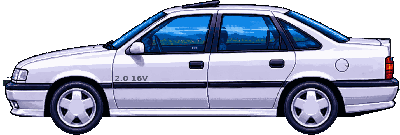
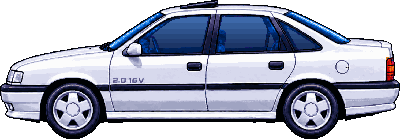
v0.81.20: lateral do Vetor GSi refeita da arte em fundo magenta (recorte limpo, vidros, rodas e luzes medidas)
Claude-Session: https://claude.ai/code/session_01MLD9VR7gkmY4w6a9beZcp6

diff --git a/src/cars.ts b/src/cars.ts
@@ -401,7 +401,7 @@ const SIDE_LAMPS: Record<string, SideLamp> = {
   nsx: { head: [0.082, 0.365], tail: [0.975, 0.38], pop: true },
   viper: { head: [0.075, 0.54], tail: [0.975, 0.53] },
   patrol: { head: [0.05, 0.636], tail: [0.958, 0.533] },
-  'br-vectra': { head: [0.051, 0.55], tail: [0.973, 0.502] },
+  'br-vectra': { head: [0.039, 0.549], tail: [0.975, 0.499] }, // vectra_side2.py
   'br-uno': { head: [0.04, 0.55], tail: [0.975, 0.46] },
   'br-golgti': { head: [0.033, 0.593], tail: [0.98, 0.6] },
   'br-kadett': { head: [0.0365, 0.601], tail: [0.976, 0.513] },
@@ -428,7 +428,7 @@ const WHEELS: Record<string, number[][]> = {
   'br-pumagte': [[0.2093, 0.7416, 0.0558], [0.7541, 0.7378, 0.0558]], // Puma GTE 1974 (pumagte_sprites2.py)
   'br-pumagtb': [[0.21, 0.7477, 0.0586], [0.7689, 0.7418, 0.0599]], // Puma GTB S2 (pumagtb_sprites.py)
   'br-golgti': [[0.1921, 0.8185, 0.0574], [0.8187, 0.8149, 0.0574]],
-  'br-vectra': [[0.1902, 0.7938, 0.0501], [0.7763, 0.7909, 0.0509]], // arte nova (vectra_sprites.py)
+  'br-vectra': [[0.1812, 0.788, 0.0509], [0.7762, 0.7861, 0.0519]], // lateral nova em fundo magenta (vectra_side2.py)
   'br-monza': [[0.1775, 0.7779, 0.0502], [0.7859, 0.7771, 0.0502]],
   'br-monzacoupe': [[0.1868, 0.7791, 0.048], [0.7874, 0.7823, 0.048]],
   'br-voyage': [[0.191, 0.7891, 0.0442], [0.7612, 0.7924, 0.0435]],

diff --git a/tools/ref/vectra_side2.py b/tools/ref/vectra_side2.py
@@ -1,0 +1,167 @@
+"""Lateral do Vetor GSi a partir da arte nova do Victor em fundo magenta liso (1774 x 887, frente para a
+direita: é espelhada). Substitui a lateral do vectra_sprites.py (a de cenário, que deixava restos de mato).
+- fundo: magenta ligado às bordas; a franja rosada encostada nele também sai
+- vidros: o magenta visto por dentro das janelas (buracos fechados pela carroceria) e a franja rosada em
+  volta viram vidro azul escuro (mais claro em cima); bancos e colunas desenhados ficam
+- marcas: a gravata dos miolos das rodas sai (miolo liso, como no resto do jogo); o adesivo do vidro sai;
+  o "2.0 16V" da porta é espelhado no lugar antes do espelho geral (continua legível)
+- redução: shrink do monza_sprites.py (miolo de cada bloco + paleta curta), 400 de largura
+- lanterna: o miolo amarelo-claro (lâmpada acesa na arte) vira âmbar
+- máscara de pintura: lataria clara e pouco colorida, sem lanternas, faróis, rodas e letreiro
+Uso: python3 tools/ref/vectra_side2.py <side.png> <src/assets/cars>   (DBG=<pasta> grava a conferência)
+"""
+import os
+import sys
+
+import cv2
+import numpy as np
+from PIL import Image
+
+sys.path.insert(0, os.path.dirname(__file__))
+from monza_sprites import shrink  # noqa: E402
+
+ID = 'br-vectra'
+HUBS = ((489, 645), (1380, 645))      # miolos das rodas (gravata), arte original
+HUB_R = 21                            # o miolo com a gravata; o aro da capa (r 22-26) fica
+WHEEL_R = 102                         # roda inteira (pneu), para tirar da máscara de pintura
+TEXT = (1110, 525, 1234, 551)         # "2.0 16V"
+STICKER = (916, 414, 956, 432)        # adesivo no vidro da porta
+# lentes (polígonos justos: a lataria em volta tem de entrar na pintura)
+LENSES = [
+    [(176, 452), (211, 452), (211, 545), (176, 545)],                                 # lanterna
+    [(1562, 506), (1600, 499), (1616, 506), (1623, 546), (1570, 549), (1561, 541)],    # farol
+    [(1600, 621), (1629, 621), (1623, 653), (1596, 653)],                             # farol de neblina
+]
+
+
+def is_mag(a, loose=False):
+    r, g, b = (a[..., i].astype(int) for i in range(3))
+    if loose:
+        return (r - g > 60) & (b - g > 60)
+    return (r > 170) & (b > 170) & (g < 90)
+
+
+def segment(a):
+    H, W = a.shape[:2]
+    mag = is_mag(a)
+    n, lab = cv2.connectedComponents(mag.astype(np.uint8), connectivity=4)
+    bg = np.isin(lab, np.unique(np.concatenate([lab[0], lab[-1], lab[:, 0], lab[:, -1]])))
+    bg &= mag
+    # franja rosada encostada no fundo
+    pink = is_mag(a, loose=True)
+    for _ in range(3):
+        bg |= pink & (cv2.dilate(bg.astype(np.uint8), np.ones((3, 3), np.uint8)) > 0)
+    car = ~bg
+    car = cv2.morphologyEx(car.astype(np.uint8), cv2.MORPH_OPEN, np.ones((3, 3), np.uint8)) > 0
+    n, lab, st, _ = cv2.connectedComponentsWithStats(car.astype(np.uint8), 8)
+    car = lab == (1 + int(np.argmax(st[1:, cv2.CC_STAT_AREA])))
+    # janelas: magenta fechado dentro do carro, mais a franja rosada em volta
+    win = mag & car
+    win = cv2.morphologyEx(win.astype(np.uint8), cv2.MORPH_OPEN, np.ones((3, 3), np.uint8)) > 0
+    for _ in range(4):
+        win |= pink & car & (cv2.dilate(win.astype(np.uint8), np.ones((3, 3), np.uint8)) > 0)
+    stray = (pink | mag) & car & ~win                       # pontos rosados soltos: viram a cor do vizinho
+    return car, win, stray
+
+
+def glass(a, win):
+    ys = np.nonzero(win)[0]
+    y0, y1 = ys.min(), ys.max()
+    yy = np.mgrid[0:a.shape[0], 0:a.shape[1]][0]
+    t = np.clip((yy - y0) / max(1, y1 - y0), 0, 1)
+    top, bot = np.array([70, 112, 178]), np.array([26, 46, 92])
+    col = (top[None, None] * (1 - t[..., None]) + bot[None, None] * t[..., None]).astype(np.uint8)
+    a[win] = col[win]
+
+
+def fix_stray(a, stray):
+    if stray.any():
+        blur = cv2.medianBlur(a, 5)
+        a[stray] = blur[stray]
+
+
+def rowfill(a, x0, y0, x1, y1):
+    for y in range(y0, y1):
+        l, r = a[y, x0 - 6:x0 - 1].astype(float).mean(axis=0), a[y, x1 + 1:x1 + 6].astype(float).mean(axis=0)
+        t = np.linspace(0, 1, x1 - x0)[:, None]
+        a[y, x0:x1] = (l * (1 - t) + r * t).astype(np.uint8)
+
+
+def debrand(a):
+    yy, xx = np.mgrid[0:a.shape[0], 0:a.shape[1]]
+    for cx, cy in HUBS:
+        d = np.hypot(xx - cx, yy - cy)
+        ring = (d > HUB_R - 6) & (d < HUB_R - 1)
+        lum = a[ring].astype(int).mean(axis=1)
+        cap = np.median(a[ring][lum > np.percentile(lum, 60)], axis=0).astype(np.uint8)
+        a[d <= HUB_R - 1] = cap
+    rowfill(a, *STICKER)
+    # lanterna: nada aceso na arte (o miolo amarelo-claro da lâmpada vira o âmbar da lente)
+    x0, y0, x1, y1 = 176, 452, 211, 545
+    q = a[y0:y1, x0:x1].astype(int)
+    lit = (q[..., 0] > 220) & (q[..., 1] > 170)
+    q[lit] = (q[lit] * [0.9, 0.62, 0.25]).astype(int)
+    a[y0:y1, x0:x1] = q.astype(np.uint8)
+    x0, y0, x1, y1 = TEXT
+    a[y0:y1, x0:x1] = a[y0:y1, x0:x1][:, ::-1].copy()   # espelhado no lugar: lê certo depois do espelho geral
+
+
+def zone(shape):
+    z = np.zeros(shape, np.uint8)
+    for p in LENSES:
+        cv2.fillPoly(z, [np.array(p, np.int32)], 1)
+    z = z > 0
+    yy, xx = np.mgrid[0:shape[0], 0:shape[1]]
+    for cx, cy in HUBS:
+        z |= np.hypot(xx - cx, yy - cy) <= WHEEL_R
+    return z
+
+
+def paint_mask(a, car, win):
+    rgb = a.astype(int)
+    lum, sat = rgb.mean(axis=2), rgb.max(axis=2) - rgb.min(axis=2)
+    ok = car & ~win & ~zone(car.shape)
+    x0, y0, x1, y1 = TEXT
+    txt = np.zeros_like(ok)
+    txt[y0:y1, x0:x1] = lum[y0:y1, x0:x1] < 160
+    ok &= ~txt
+    m = ok & (lum > 120) & (sat < 60)
+    m = cv2.morphologyEx(m.astype(np.uint8), cv2.MORPH_OPEN, np.ones((5, 5), np.uint8)) > 0
+    for _ in range(6):
+        near = cv2.dilate(m.astype(np.uint8), np.ones((3, 3), np.uint8)) > 0
+        m |= ok & near & (lum > 80) & (sat < 70)
+    n, lab, st, _ = cv2.connectedComponentsWithStats(m.astype(np.uint8), 4)
+    return np.isin(lab, [i for i in range(1, n) if st[i, cv2.CC_STAT_AREA] >= 60])
+
+
+def main():
+    src, out = sys.argv[1], sys.argv[2]
+    dbg = os.environ.get('DBG')
+    a = np.array(Image.open(src).convert('RGB'))
+    car, win, stray = segment(a)
+    glass(a, win)
+    fix_stray(a, stray)
+    debrand(a)
+    pm = paint_mask(a, car, win)
+    a, car, pm = (np.ascontiguousarray(v[:, ::-1]) for v in (a, car, pm))
+    s, (ox, oy, f) = shrink(a, car, 400)
+    g8, _ = shrink(np.dstack([pm * 255] * 3).astype(np.uint8), car, 400, colors=0)
+    m = (g8[..., 0] > 127) & (s[..., 3] > 0)
+    Image.fromarray(s, 'RGBA').save(os.path.join(out, f'{ID}-side.png'), optimize=True)
+    Image.fromarray((m * 255).astype(np.uint8), 'L').convert('RGBA').save(os.path.join(out, f'{ID}-side-mask.png'), optimize=True)
+    W = a.shape[1]
+    fr = lambda x, y: (round((W - 1 - x - ox) / f / s.shape[1], 4), round((y - oy) / f / s.shape[0], 4))  # noqa: E731
+    print('side', s.shape[1], s.shape[0], 'fator', round(f, 3))
+    print('  farol', fr(1592, 524), 'lanterna', fr(194, 498))
+    if dbg:
+        v = np.array(Image.fromarray(s).resize((s.shape[1] * 3, s.shape[0] * 3), Image.NEAREST))
+        bg = np.zeros_like(v[..., :3]); bg[:] = (0, 160, 0)
+        al = v[..., 3:] / 255
+        mm = np.array(Image.fromarray((m * 255).astype(np.uint8)).resize((s.shape[1] * 3, s.shape[0] * 3), Image.NEAREST)) > 0
+        lum = v[..., :3].astype(float).mean(axis=2)
+        bl = v[..., :3].copy(); bl[mm] = np.stack([lum * .25, lum * .45, lum * 1.1], -1).clip(0, 255)[mm]
+        Image.fromarray(np.concatenate([(v[..., :3] * al + bg * (1 - al)), (bl * al + bg * (1 - al))], 0).astype(np.uint8)).save(os.path.join(dbg, 'side-dbg.png'))
+
+
+if __name__ == '__main__':
+    main()

diff --git a/CLAUDE.md b/CLAUDE.md
@@ -27,7 +27,7 @@
   fotos reais (corsa_gauges.py, aceso em âmbar). Patrulha 9C (Caprice 9C1): exterior novo (tools/ref/patrol_sprites2.py, giroflex da lateral só com a ponta vermelha) e cabine
   com velocímetro digital turquesa (patrol_cockpit2.py, patrolCluster). Cadete GSi (Kadett GSi 2.0): exterior novo branco (tools/ref/kadett_sprites.py: "CHEVROLET" da tampa sai)
   e capas (kadett_photos.py: kd-revista, kd-praia, kd-duelo); cabine nova (kadett_cockpit.py: painel da arte sem volante,
-  volante da com volante, vidros pelo magenta) com o quadro digital da foto do carro real (kadettCluster). Vetor GSi (Vectra GSi 2.0 16v): exterior novo branco com cenário (tools/ref/vectra_sprites.py e depois vectra_side_fix.py) e capas
+  volante da com volante, vidros pelo magenta) com o quadro digital da foto do carro real (kadettCluster). Vetor GSi (Vectra GSi 2.0 16v): exterior novo branco com cenário (tools/ref/vectra_sprites.py: frente e traseira; a lateral vem da arte em fundo magenta: vectra_side2.py, rodar depois) e capas
   (vectra_photos.py: vt-estrada, vt-motor, vt-folheto); cabine nova (3ª arte do Victor, vidros em magenta, alça do teto removida; vectra_cockpit.py, escala 0,29; depois rodar edge_build.py br-vectra L 10 0.27 , magenta_fringe.py br-vectra e vectra_mirror_mask.py: carcaça do retrovisor na cor do carro; visor do console desenhado no jogo: vectraLcd)
   com o quadro da foto do carro real (vectra_gauges.py, pumaGauges). Os demais (ZR1, Uno) ficam como estão
   até a arte nova chegar, para não haver retrabalho: nada de retoques, retrovisores ou quadros neles.
